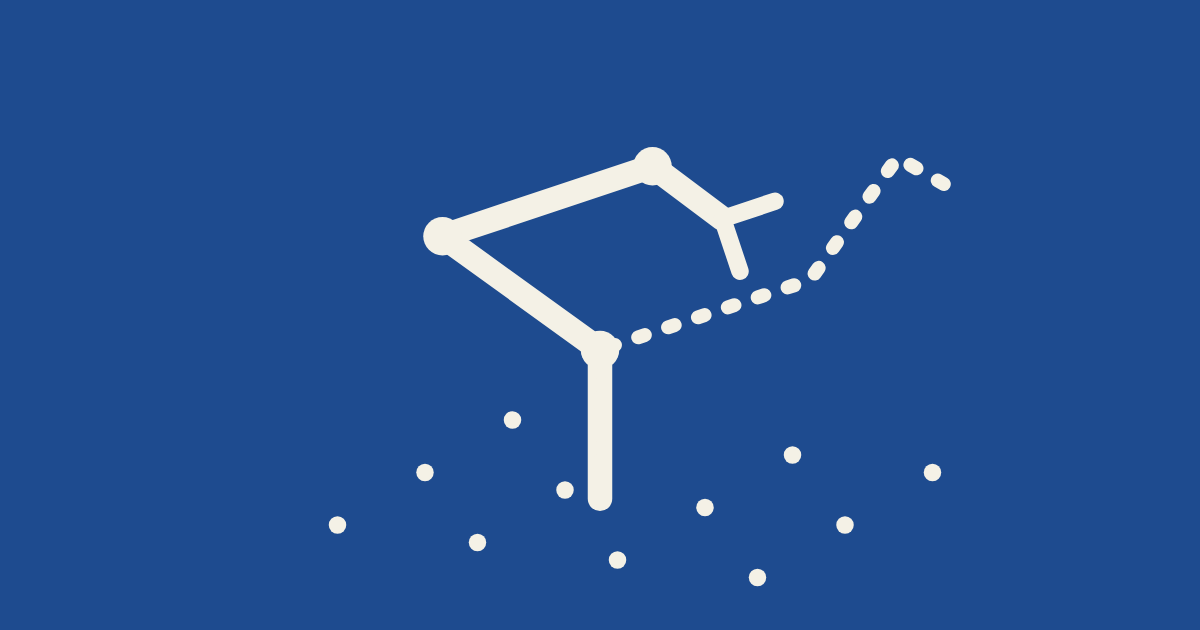
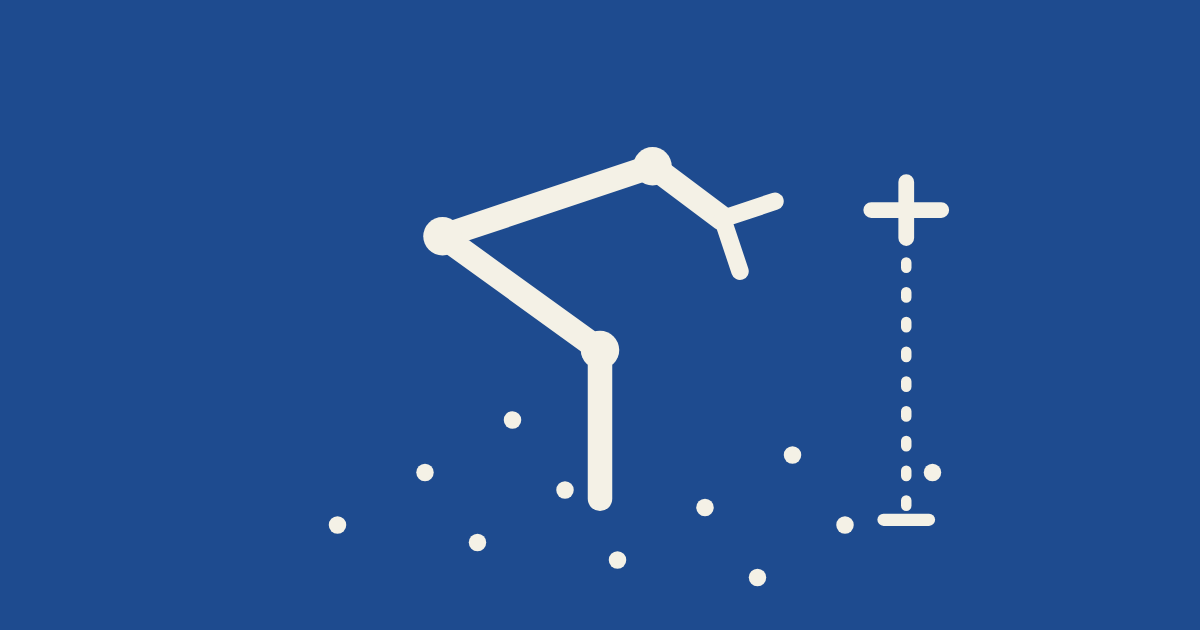
Armatron-80: show the target as a cross, drop gags, add REM spacers
The hidden target pose now runs through the shared arm routine with
drawing off (DR=0), as in Linkage Blaze; the target is drawn as a cross
with a dotted line to the floor instead of a ghost arm. Remove the dance,
success quips, and title jokes. Blank REM lines separate sections.

diff --git a/app/site/programs/armatron.js b/app/site/programs/armatron.js
@@ -15,7 +15,6 @@ const keyTable = `<table class="armatron-keys"><thead><tr><th>Keys</th><th>Joint
 <tr><td><kbd>Z</kbd> / <kbd>X</kbd></td><td>Zoom the camera in or out</td></tr>
 <tr><td><kbd>Space</kbd></td><td>Auto-reach: let the arm search for the target, or stop it</td></tr>
 <tr><td><kbd>N</kbd> / <kbd>P</kbd></td><td>Next or previous target</td></tr>
-<tr><td><kbd>1</kbd></td><td>Dance (any joint key stops it)</td></tr>
 <tr><td><kbd>0</kbd></td><td>Return the arm to its starting pose</td></tr>
 </tbody></table>`;
 
@@ -26,17 +25,17 @@ export const armatronView = {
   instructions: () => `<section><h2>A robot arm made of turtle steps</h2>
 <p>Armatron-80 is new: I wrote it in 2026 with Claude, in the Level II BASIC this collection was written in. It is not a recovered tape. It ports two modern projects of mine back to the TRS-80. One is the Armatron demo from <a href="${lb}" target="_blank" rel="noopener noreferrer">Linkage Blaze</a>, a Rust 3-D turtle-graphics library. The other is the <a href="${excel}" target="_blank" rel="noopener noreferrer">Excel 3-D robot arm</a> workbook. Both model the <a href="${armatron}" target="_blank" rel="noopener noreferrer">Armatron</a>, the six-motion toy arm Radio Shack sold in the 1980s.</p>
 <h3>Start here</h3>
-<p>Click the screen so it gets your keys. A dotted ghost arm marks a target pose. Hold the joint keys to steer the solid arm until its fingertips meet the ghost's; the status line shows the distance. Get within 0.30 for a reward. Press <kbd>Space</kbd> to watch the arm find the target by itself, and <kbd>N</kbd> for a new target.</p>
+<p>Click the screen so it gets your keys. A cross marks the target, with a dotted line down to the floor to show its height. Hold the joint keys to steer the arm until its fingertips touch the cross; the status line shows the distance. Use the camera keys to judge depth. Press <kbd>Space</kbd> to watch the arm find the target by itself, and <kbd>N</kbd> for a new target.</p>
 ${keyTable}
 <h3>How it works</h3>
-<p>The arm is a chain of turtle steps, the same chain as in Linkage Blaze and the spreadsheet: swing, rise 2.5, pitch the shoulder, go 3, bend the elbow, go 3, pitch the wrist, go 1, twist, go 0.5, then two fingers. Each turn multiplies a 3×3 orientation matrix held in nine variables, A1 to A9. The camera is a turtle too: it rises, backs away, tilts, and spins, then the scene is drawn in perspective with SET. Auto-reach is a greedy coordinate search, like Linkage Blaze's: nudge one joint (or the elbow and base together), keep any nudge that brings the fingertips closer, and halve the nudge when none does. Target numbers make repeatable ghosts, using the spreadsheet's trick of taking digits from a large multiple of SIN.</p>
+<p>The arm is a chain of turtle steps, the same chain as in Linkage Blaze and the spreadsheet: swing, rise 2.5, pitch the shoulder, go 3, bend the elbow, go 3, pitch the wrist, go 1, twist, go 0.5, then two fingers. Each turn multiplies a 3×3 orientation matrix held in nine variables, A1 to A9. The camera is a turtle too: it rises, backs away, tilts, and spins, then the scene is drawn in perspective with SET. Auto-reach is a greedy coordinate search, like Linkage Blaze's: nudge one joint (or the elbow and base together), keep any nudge that brings the fingertips closer, and halve the nudge when none does. To place a target where the arm can reach it, the program runs a hidden target pose through the same arm routine with drawing turned off, as Linkage Blaze does. Target numbers make repeatable poses, using the spreadsheet's trick of taking digits from a large multiple of SIN.</p>
 <p>Speed starts at Max, as fast as your browser can run the emulator. That is about 60 times a real TRS-80, so the arm moves smoothly. Original (1×) shows the real 1980 pace: each new frame takes several seconds, because Level II BASIC rereads every number in the program text and looks variables up one by one. The listing puts its busiest variables first for this reason. Help pauses and restores the previous pause state, Pause freezes the machine, and Restart starts over. Held keys are released on blur, pause, restart, and navigation.</p>
 <p>Simplifications: lines are one pixel wide, the 9×9 floor grid is a 5×5 grid of dots, the joints have no spheres, and auto-reach skips the grip and twist, which don't move the fingertips.</p></section>`,
-  quickHelp: () => 'Click the screen. Hold Q/A, W/S, E/D, R/F, T/G, Y/H to move the six joints and reach the dotted ghost. Use the arrow keys and Z/X for the camera, Space for auto-reach, N for a new target, and 1 to dance.',
+  quickHelp: () => 'Click the screen. Hold Q/A, W/S, E/D, R/F, T/G, Y/H to move the six joints and touch the target cross. Use the arrow keys and Z/X for the camera, Space for auto-reach, and N for a new target.',
   onScreenKeys: () => [
     {label: 'Arm (hold)', keys: [['q', 'Base ←'], ['a', 'Base →'], ['w', 'Arm up'], ['s', 'Arm down'], ['e', 'Elbow'], ['d', 'Elbow'], ['r', 'Wrist up'], ['f', 'Wrist down'], ['t', 'Twist'], ['g', 'Twist'], ['y', 'Grip'], ['h', 'Release']]},
     {label: 'Camera (hold)', keys: [['ArrowLeft', 'Orbit'], ['ArrowRight', 'Orbit'], ['ArrowUp', 'Tilt'], ['ArrowDown', 'Tilt'], ['z', 'Zoom in'], ['x', 'Zoom out']]},
-    {label: 'Commands', keys: [[' ', 'Auto-reach'], ['n', 'Next target'], ['p', 'Previous'], ['1', 'Dance'], ['0', 'Reset pose']]},
+    {label: 'Commands', keys: [[' ', 'Auto-reach'], ['n', 'Next target'], ['p', 'Previous'], ['0', 'Reset pose']]},
   ],
   decoratePlayer: (instance, context) => {
     instance.setFastWhileHeld(true);

diff --git a/programs/armatron/VERIFICATION.md b/programs/armatron/VERIFICATION.md
@@ -8,11 +8,11 @@ Armatron-80 is new 2026 code. Nothing here is recovery evidence.
 loads `versions/v01/ARMATRON.BAS` into trs80-emulator 2.3.1 (stock Model III Level II ROM).
 It runs at 1× emulated time and holds real keys in the keyboard matrix. It checked:
 
-- The title, status line, help line, floor dots, solid arm, and dotted ghost arm are drawn.
+- The title, status line, help line, floor dots, arm, and target cross with its floor line are drawn.
 - Holding Q (base), W (shoulder), Left arrow (camera orbit), and Z (zoom) redraws the scene.
 - Space starts auto-reach. On target #0 it brought the fingertip distance from 3.63 to 0.07,
-  stopped by itself, and printed a success quip.
-- N advances to target #1, 1 starts the dance, and 0 resets the pose and stops it.
+  and stopped by itself.
+- N advances to target #1, and 0 resets the pose.
 
 The results and emulated time are in `verification/rom-check.json`.
 
@@ -24,6 +24,5 @@ than 3× while a key is held, the speed selector, Help, and the listing download
 
 ## Limits
 
-Greedy auto-reach can stop in a local minimum short of the 0.30 success distance on some
-targets. Only targets #0 and #1 were exercised. Pixel-level output wasn't compared with Linkage
+Greedy auto-reach can stop in a local minimum short of the target on some targets. Only targets #0 and #1 were exercised. Pixel-level output wasn't compared with Linkage
 Blaze, which runs at 320×240 with its own renderer.

diff --git a/programs/armatron/README.md b/programs/armatron/README.md
@@ -13,8 +13,8 @@ Both model Radio Shack's Armatron toy arm.
 ## Play
 
 Click the player. Hold the joint keys (Q/A base, W/S arm, E/D elbow, R/F wrist, T/G twist,
-Y/H grip) to bring the solid arm's fingertips to the dotted ghost arm's. The arrow keys orbit
-and tilt the camera, and Z/X zoom it. Space runs auto-reach, N/P change the target, 1 dances,
+Y/H grip) to put the arm's fingertips on the target cross, whose dotted line drops to the floor. The arrow keys orbit
+and tilt the camera, and Z/X zoom it. Space runs auto-reach, N/P change the target,
 and 0 resets the pose. The player starts at Max speed, which is about 60× in a typical browser.
 At Original (1×) each frame takes several seconds, as it would have in 1980.
 

diff --git a/AGENTS.md b/AGENTS.md
@@ -615,3 +615,8 @@ user's VS Code workspace). It is marked `newProgram: true`, and its provenance h
 rebuilds the .BAS and its provenance hashes. Run `npm run check:armatron` for the headless
 ROM check. It reads held keys with PEEK, so its player calls `setFastWhileHeld(true)` and
 starts at Max speed. It sits in More right after JAB, at unshared web v1, on branch `armatron`.
+
+The user's design choices: the arm and the hidden target pose share one hard-coded GOSUB
+chain (line 2000), with global `DR` choosing whether it draws; the target shows only as a
+cross with a dotted drop line, never as a ghost arm. No interpreted DSL. No gags (dance,
+success quips, jokes); blank `REM` lines separate sections.
